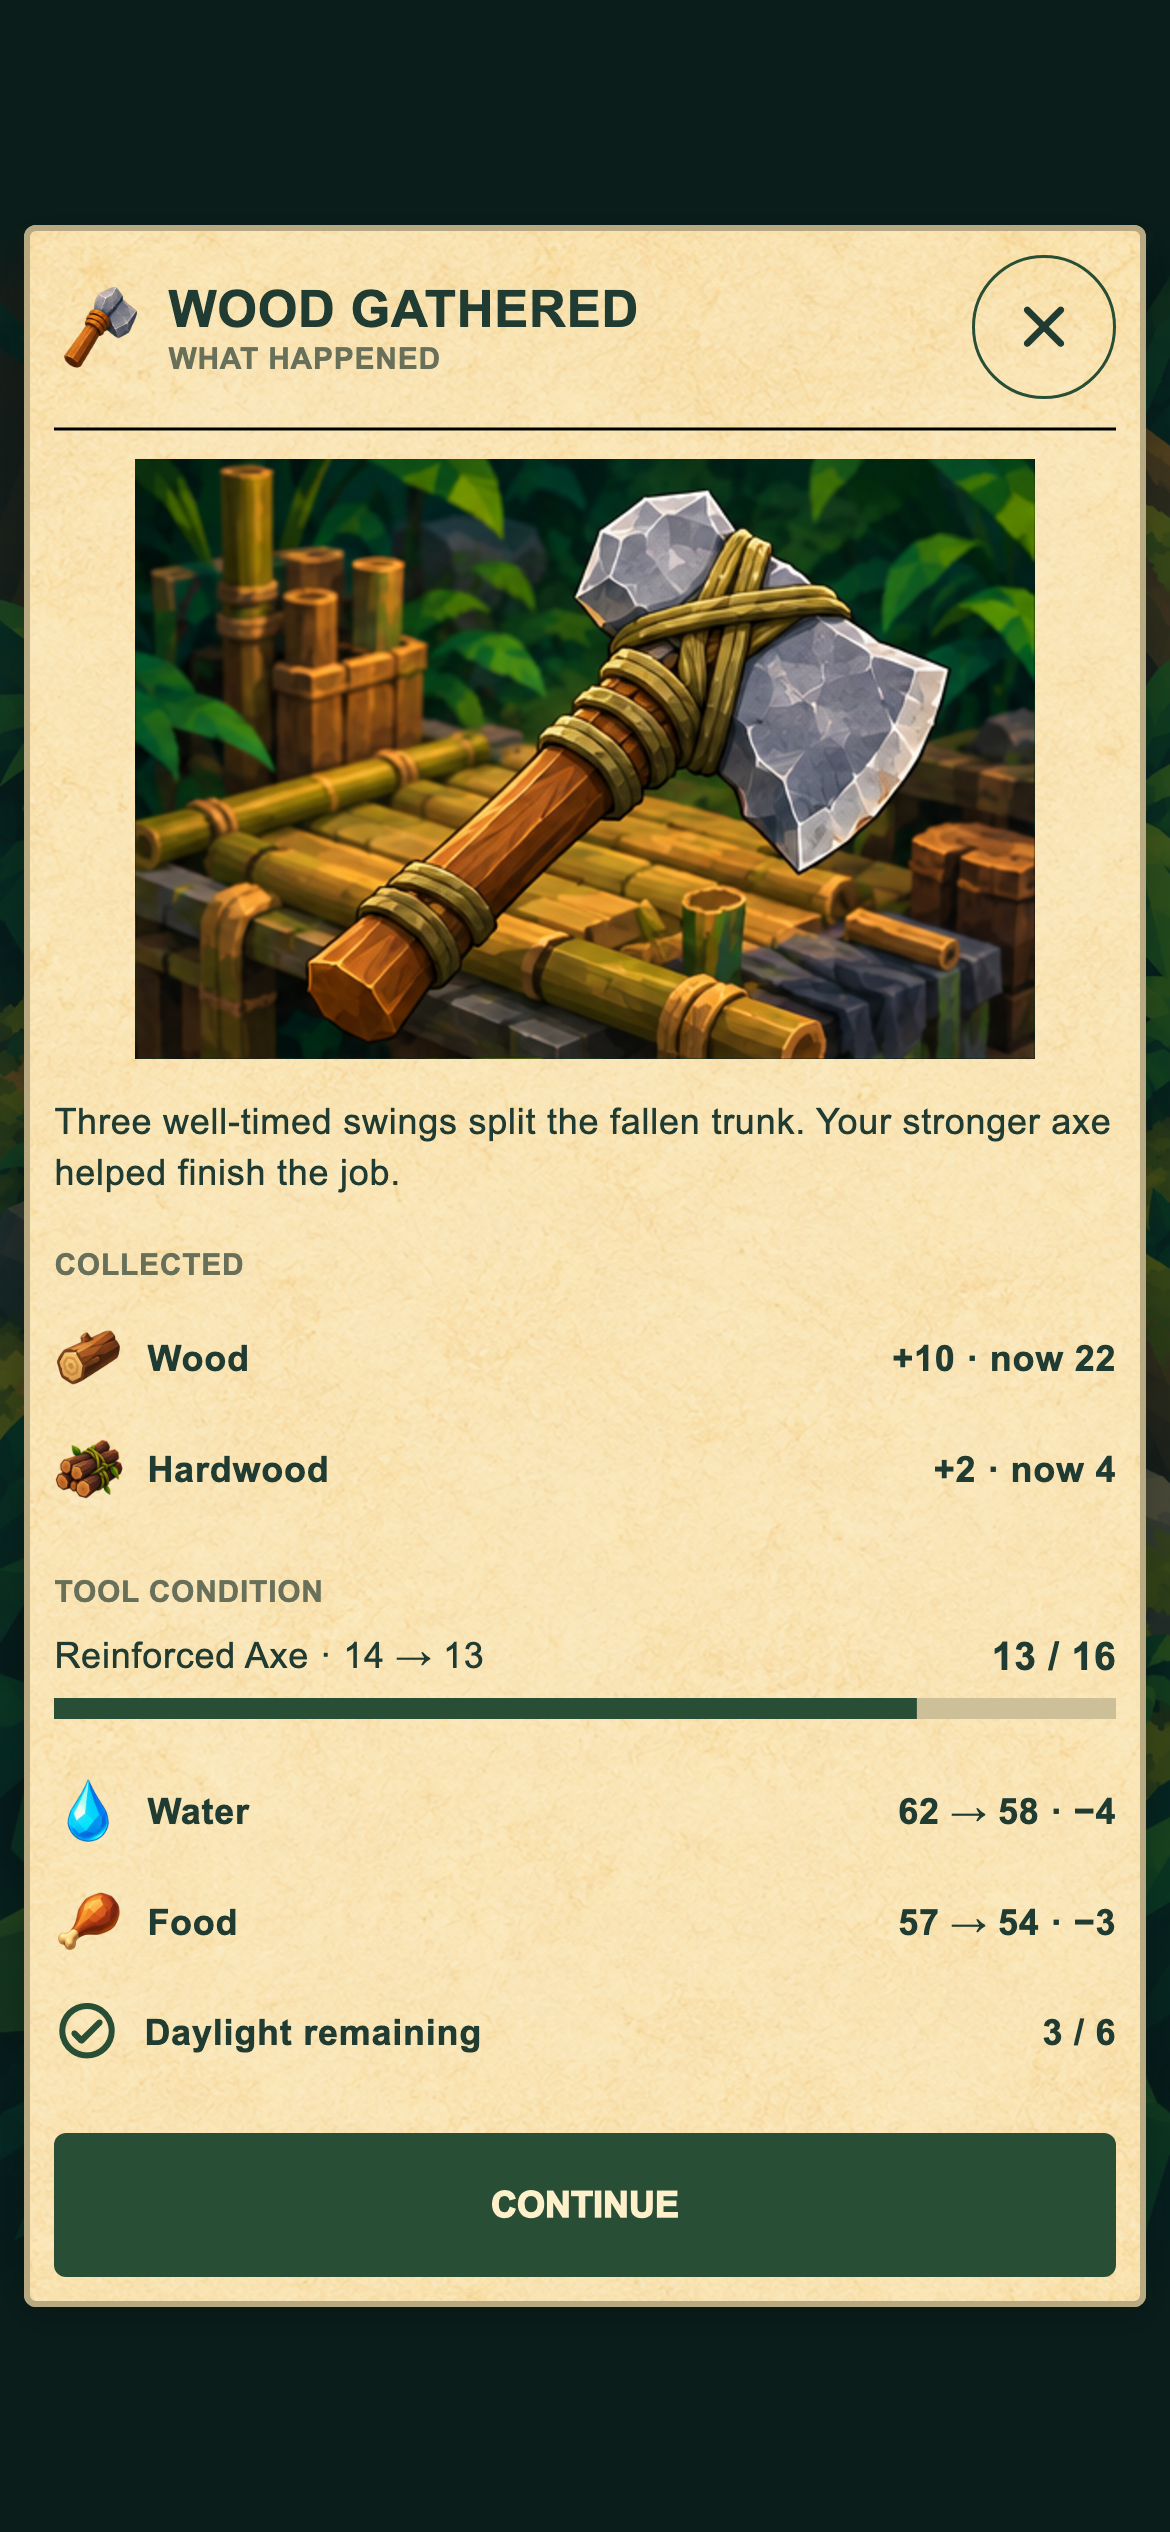
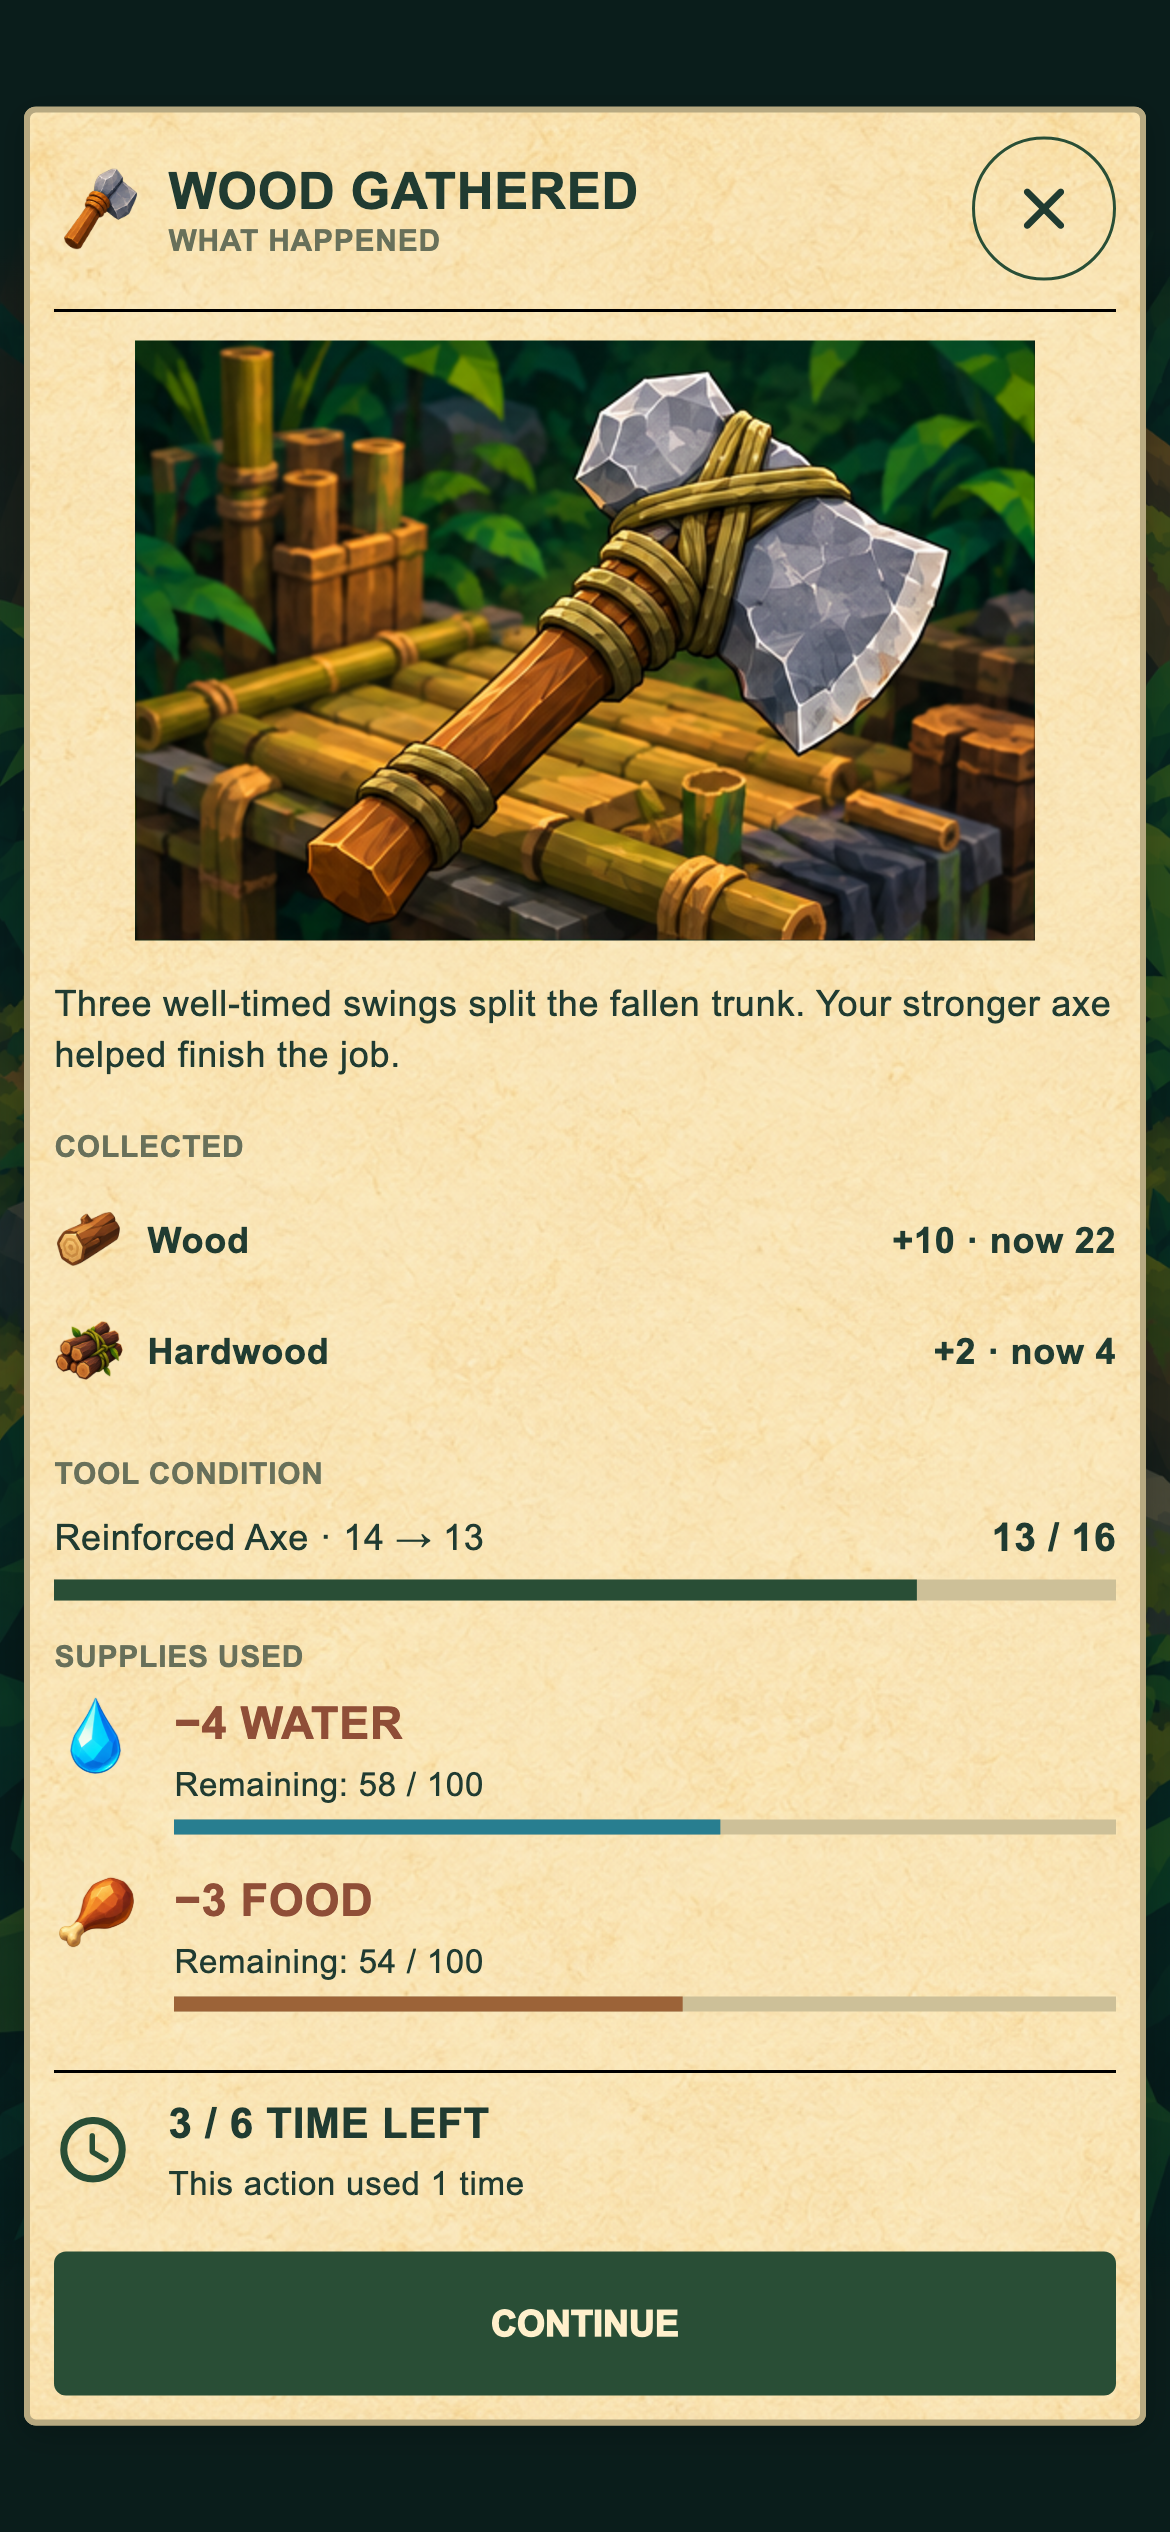
Clarify outcome supply changes and remaining daylight in concepts

diff --git a/survival_game/design/tool-progression-v1/render.dart b/survival_game/design/tool-progression-v1/render.dart
@@ -6,6 +6,7 @@ import 'package:flutter/rendering.dart';
 import 'package:flutter_test/flutter_test.dart';
 import 'package:survival_game/ui/canopy_components.dart';
 import 'package:survival_game/ui/canopy_theme.dart';
+import 'package:survival_game/ui/card_art.dart';
 import 'package:survival_game/ui/parchment_components.dart';
 import 'package:survival_game/ui/scene_artwork.dart';
 import '../../screenshots/tools/capture_fonts.dart';
@@ -92,6 +93,43 @@ Widget tabs(bool axes) => Row(
     const SizedBox(width: 8),
     Expanded(child: button('SPEARS', secondary: axes)),
   ],
+);
+Widget spentStat(
+  String icon,
+  String label,
+  int spent,
+  int remaining,
+  Color color,
+) => Padding(
+  padding: const EdgeInsets.only(bottom: 12),
+  child: Row(
+    crossAxisAlignment: CrossAxisAlignment.start,
+    children: [
+      CardArt(icon, size: 28),
+      const SizedBox(width: 12),
+      Expanded(
+        child: col([
+          ParchmentLabel(
+            '−$spent $label',
+            size: 15,
+            color: ParchmentColors.rust,
+          ),
+          gap(3),
+          Text(
+            'Remaining: $remaining / 100',
+            style: const TextStyle(fontSize: 11, color: ink),
+          ),
+          gap(5),
+          LinearProgressIndicator(
+            value: remaining / 100,
+            minHeight: 5,
+            color: color,
+            backgroundColor: const Color(0xFFCDC098),
+          ),
+        ]),
+      ),
+    ],
+  ),
 );
 Widget scene(String asset, Widget heading, Widget footer) => Scaffold(
   backgroundColor: const Color(0xFF102A28),
@@ -409,9 +447,26 @@ final concepts = <String, Widget Function()>{
       title('TOOL CONDITION'),
       meter('Reinforced Axe · 14 → 13', 13, 16),
       gap(),
-      row('Water', '62 → 58 · −4', icon: 'water'),
-      row('Food', '57 → 54 · −3', icon: 'food'),
-      row('Daylight remaining', '3 / 6'),
+      title('SUPPLIES USED'),
+      spentStat('water', 'WATER', 4, 58, const Color(0xFF287E90)),
+      spentStat('food', 'FOOD', 3, 54, const Color(0xFF9C6338)),
+      const Divider(height: 16),
+      Row(
+        children: [
+          const Icon(Icons.schedule_rounded, size: 26, color: leaf),
+          const SizedBox(width: 12),
+          Expanded(
+            child: col([
+              const ParchmentLabel('3 / 6 TIME LEFT', size: 14),
+              gap(3),
+              const Text(
+                'This action used 1 time',
+                style: TextStyle(fontSize: 11, color: ink),
+              ),
+            ]),
+          ),
+        ],
+      ),
       gap(16),
       button('CONTINUE'),
     ]),

diff --git a/survival_game/design/tool-progression-v1/README.md b/survival_game/design/tool-progression-v1/README.md
@@ -27,6 +27,8 @@ A jobb balták a tartósság mellett kicsit szélesebb GOOD zónát és próbán
 
 A három egyforma kártya mindig rövid marad. Koppintásra jelennek meg a költségek és előnyök, majd külön Craft / Equip / Repair / Confirm művelet következik. Az esemény jutalma csak utólag jelenik meg. A 08-as terv sérült játékost szemléltet: 70% alap + 8 pont fegyver − 10 pont sérülés = 68% aktuális esély.
 
+2026-10-15-ös korrekció: az eredmény víz/étel sorai a kiemelt fogyást mutatják (−4 Water, −3 Food), alattuk külön a megmaradt értéket és progress bart. Az idő külön óraikonnal, hátralévő és elhasznált időként látszik; nincs három számból álló nyilas képlet.
+
 ## Grafika és ellenőrzés
 
 [Új, 9 cellás atlasz](assets/tools-atlas-v1.png) · [Built-in imagegen prompt, referencia és forrás](PROMPTS.md). A korábbi artok megmaradtak. Az atlasz csak tárgyakat tartalmaz; a hátterek a meglévő helyszínképek. A miniatűr rendszerikonok meglévő átlátszó ikonok; az új eszközök saját átlátszó kis ikonjai a bekötési körben készülnek.
